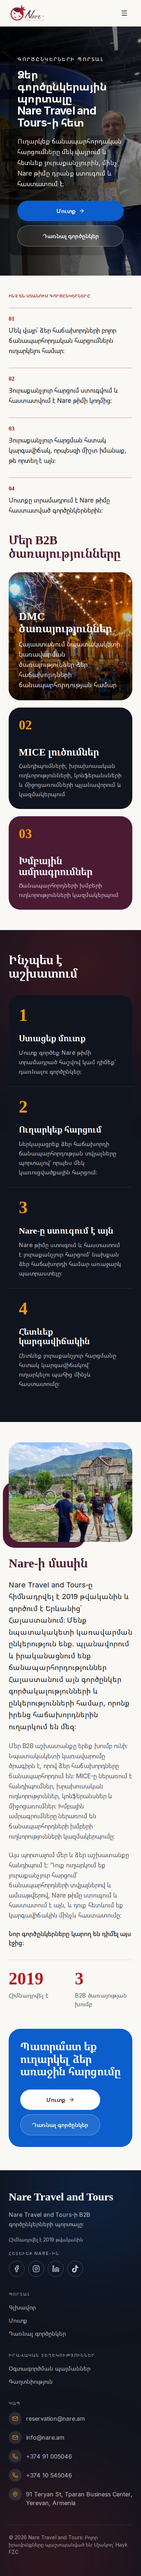
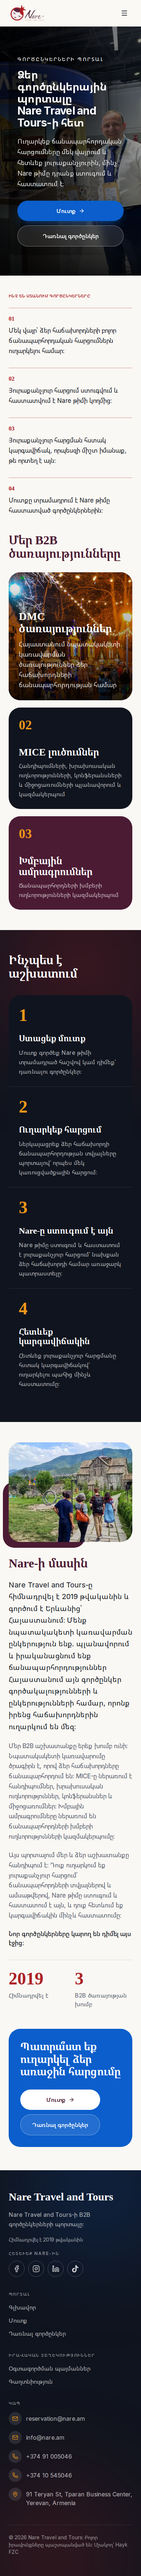
docs(evidence): image-budget follow-up, refreshed screenshots and audit (60/60)

Changed region(s): [[0.2154, 0.0624, 1.0, 0.1248], [0.0615, 0.0936, 0.1538, 0.1248]]

diff --git a/doc/b2b-cycle-1/PHASE-9-STAGING-SYSTEM.md b/doc/b2b-cycle-1/PHASE-9-STAGING-SYSTEM.md
@@ -24,3 +24,6 @@ See the final report in the conversation for exact counts: typecheck, full suite
 
 ## Open items
 Licence/ownership of the three photographs for the production portal; native review of Armenian; pricing proof (release blocker).
+
+## Follow-up (2026-11-12): image budget and tablet polish
+Code commit `60f425e`. A 235x112 header derivative of the approved logo (`public/brand/nare-logo-header.webp`, 7.6 KB; same artwork, original kept) replaces the 78 KB file in the header; landing image weight 442 KB -> 373 KB (budget 400 KB). A bottom gradient below `lg` dims the stand signage at the hero photo's lower edge on tall crops, and the About photo is height-capped on tablet. Gates: tsc clean, 135 files / 1707 tests, build OK, browser audit 60/60, permission smoke 40/40, perf script all pass. Evidence refreshed in `evidence/redesign3/after`.
